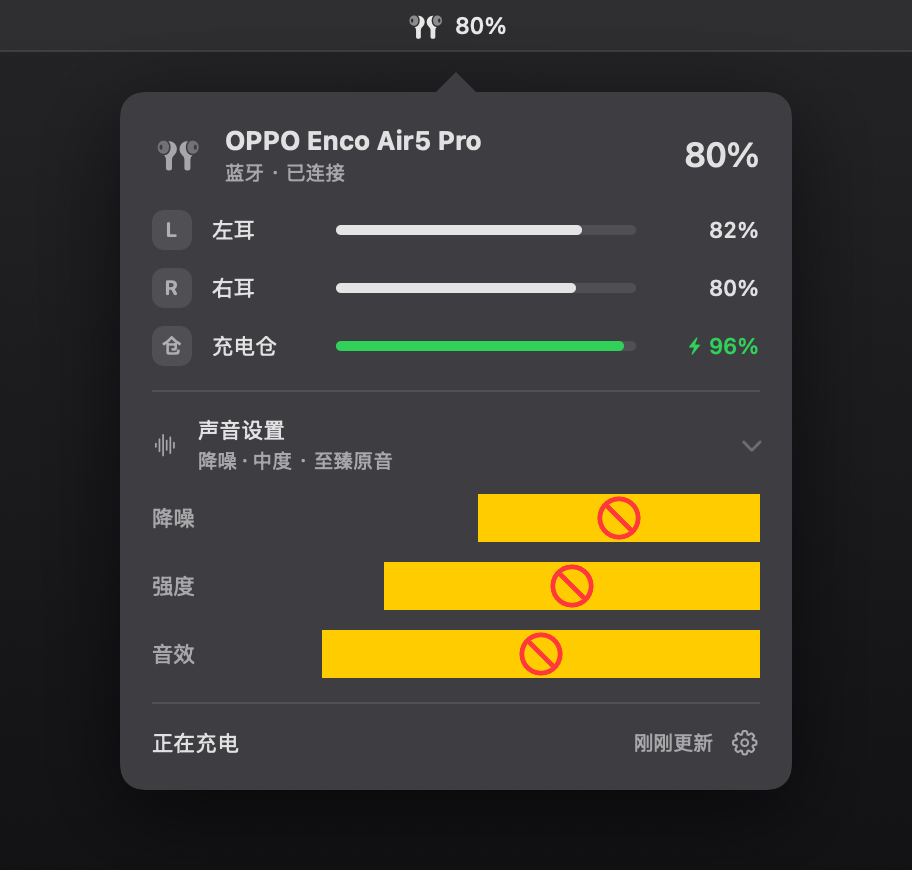
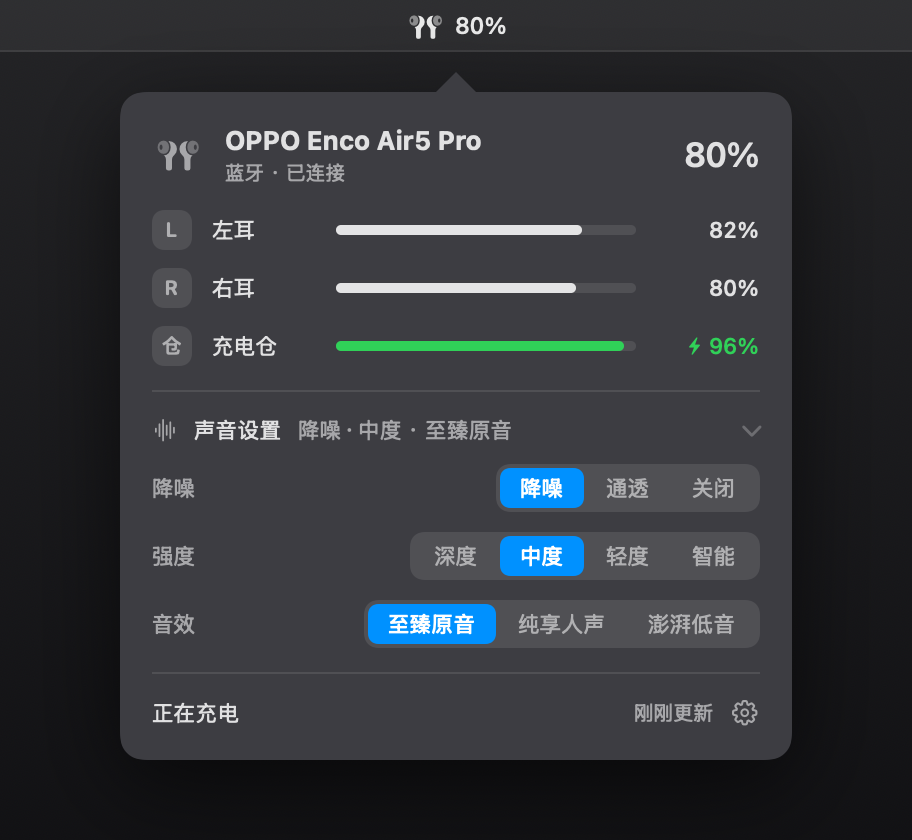
fix: 摘要合并单行；展开改即时；分段选中滑块动画；佩戴中不显示充电

diff --git a/EncoBattery.swift b/EncoBattery.swift
@@ -416,7 +416,7 @@ private struct LevelRow: View {
     }
 }
 
-// MARK: - 分段选择（系统控件）
+// MARK: - 分段选择（样式对齐系统分段控件，选中指示带滑动动画）
 
 private struct SegmentedRow<Value: Hashable>: View {
     let label: String
@@ -425,19 +425,49 @@ private struct SegmentedRow<Value: Hashable>: View {
     let disabled: Bool
     let action: (Value) -> Void
 
+    @Environment(\.accessibilityReduceMotion) private var reduceMotion
+    @Namespace private var indicator
+
     var body: some View {
-        Picker(label, selection: Binding(
-            get: { selection },
-            set: { if let value = $0 { action(value) } }
-        )) {
+        HStack(spacing: 1) {
             ForEach(options, id: \.value) { option in
-                Text(option.label).tag(Optional(option.value))
+                segment(option)
             }
         }
-        .pickerStyle(.segmented)
-        .labelsHidden()
-        .disabled(disabled)
+        .padding(2)
+        .background(
+            RoundedRectangle(cornerRadius: 7, style: .continuous)
+                .fill(.quaternary)
+        )
+        .opacity(disabled ? 0.45 : 1)
+        .animation(reduceMotion ? nil : .easeInOut(duration: 0.15), value: selection)
+        .accessibilityElement(children: .ignore)
         .accessibilityLabel(label)
+        .accessibilityValue(selection.flatMap { selected in
+            options.first { $0.value == selected }?.label
+        } ?? "未选择")
+    }
+
+    @ViewBuilder private func segment(_ option: (value: Value, label: String)) -> some View {
+        let selected = selection == option.value
+        Text(option.label)
+            .font(.subheadline.weight(selected ? .medium : .regular))
+            .foregroundStyle(selected ? Color.white : Color.secondary)
+            .padding(.horizontal, 10)
+            .padding(.vertical, 3)
+            .frame(minHeight: 18)
+            .background {
+                if selected {
+                    RoundedRectangle(cornerRadius: 5, style: .continuous)
+                        .fill(Color.accentColor)
+                        .matchedGeometryEffect(id: "selected", in: indicator)
+                }
+            }
+            .contentShape(Rectangle())
+            .onTapGesture {
+                guard !disabled else { return }
+                action(option.value)
+            }
     }
 }
 
@@ -514,23 +544,22 @@ private struct BatteryPopover: View {
     private var soundSection: some View {
         VStack(spacing: 10) {
             Button {
-                withAnimation(reduceMotion ? nil : .easeInOut(duration: 0.15)) {
-                    soundExpanded.toggle()
-                }
+                soundExpanded.toggle()
             } label: {
-                HStack(spacing: 10) {
+                HStack(spacing: 8) {
                     Image(systemName: "waveform")
                         .font(.subheadline)
                         .foregroundStyle(.secondary)
                         .accessibilityHidden(true)
 
-                    VStack(alignment: .leading, spacing: 2) {
-                        Text("声音设置")
-                            .font(.subheadline)
-                        Text(soundSummary)
-                            .font(.caption)
-                            .foregroundStyle(.secondary)
-                    }
+                    Text("声音设置")
+                        .font(.subheadline)
+
+                    Text(soundSummary)
+                        .font(.subheadline)
+                        .foregroundStyle(.secondary)
+                        .lineLimit(1)
+                        .truncationMode(.tail)
 
                     Spacer(minLength: 8)
 
@@ -548,7 +577,6 @@ private struct BatteryPopover: View {
             }
             .buttonStyle(.plain)
             .accessibilityLabel("声音设置，\(soundSummary)")
-            .accessibilityAddTraits(soundExpanded ? [] : .isButton)
             .accessibilityHint(soundExpanded ? "折叠" : "展开")
 
             if soundExpanded {
@@ -556,10 +584,8 @@ private struct BatteryPopover: View {
                     noiseSection
                     eqSection
                 }
-                .transition(.opacity)
             }
         }
-        .animation(reduceMotion ? nil : .easeInOut(duration: 0.15), value: soundExpanded)
     }
 
     private var soundSummary: String {
@@ -795,6 +821,9 @@ final class EncoLink {
     private var nextOpenAt = Date.distantPast
 
     private var snapshot = Snapshot()
+    /// 左右耳放置状态（id 1/2 → 是否在盒内）。absent = 未知。
+    /// 耳机只有进盒才可能充电；佩戴中上报/回包里的充电位不可信，用它做门禁。
+    private var sideInCase: [UInt8: Bool] = [:]
 
     init(keepaliveInterval: TimeInterval) {
         self.keepaliveInterval = keepaliveInterval
@@ -1112,8 +1141,12 @@ final class EncoLink {
                 guard base + 1 < payload.count else { break }
                 let raw = Int(payload[base + 1])
                 let level = raw & 0x7f
-                let charging = raw & 0x80 != 0
-                switch payload[base] {
+                var charging = raw & 0x80 != 0
+                let slot = payload[base]
+                if slot == 1 || slot == 2 {
+                    if sideInCase[slot] == false { charging = false } // 佩戴中充电位不可信
+                }
+                switch slot {
                 case 1: left = level; leftCharging = charging
                 case 2: right = level; rightCharging = charging
                 case 3: caseLevel = level; caseCharging = charging
@@ -1133,8 +1166,12 @@ final class EncoLink {
         case 0x0402: // 主动状态上报：电量 0 = 休眠，语义和查询回包不同
             let report = StatusReport.parse(payload)
             for entry in report.battery {
-                let charging = entry.raw & 0x80 != 0
+                var charging = entry.raw & 0x80 != 0
                 let level: Int? = entry.raw == 0 ? nil : Int(entry.raw & 0x7f)
+                if entry.id == 1 || entry.id == 2 {
+                    // 佩戴中的耳机不可能在充电：已知盒外时忽略充电位
+                    if sideInCase[entry.id] == false { charging = false }
+                }
                 switch entry.id {
                 case 1:
                     snapshot.left = level
@@ -1149,6 +1186,12 @@ final class EncoLink {
                 }
             }
             for entry in report.placement where entry.id == 1 || entry.id == 2 {
+                switch entry.value {
+                case 0x04: sideInCase[entry.id] = true // 盒内
+                case 0x05: sideInCase[entry.id] = false // 盒外（佩戴）→ 充电态立即作废
+                    if entry.id == 1 { snapshot.leftCharging = false } else { snapshot.rightCharging = false }
+                default: sideInCase.removeValue(forKey: entry.id) // 过渡态不可知
+                }
                 // 进仓且没在充电：旧电量作废，等重新上报
                 guard entry.value == 0x04 else { continue }
                 let charging = entry.id == 1 ? snapshot.leftCharging : snapshot.rightCharging
